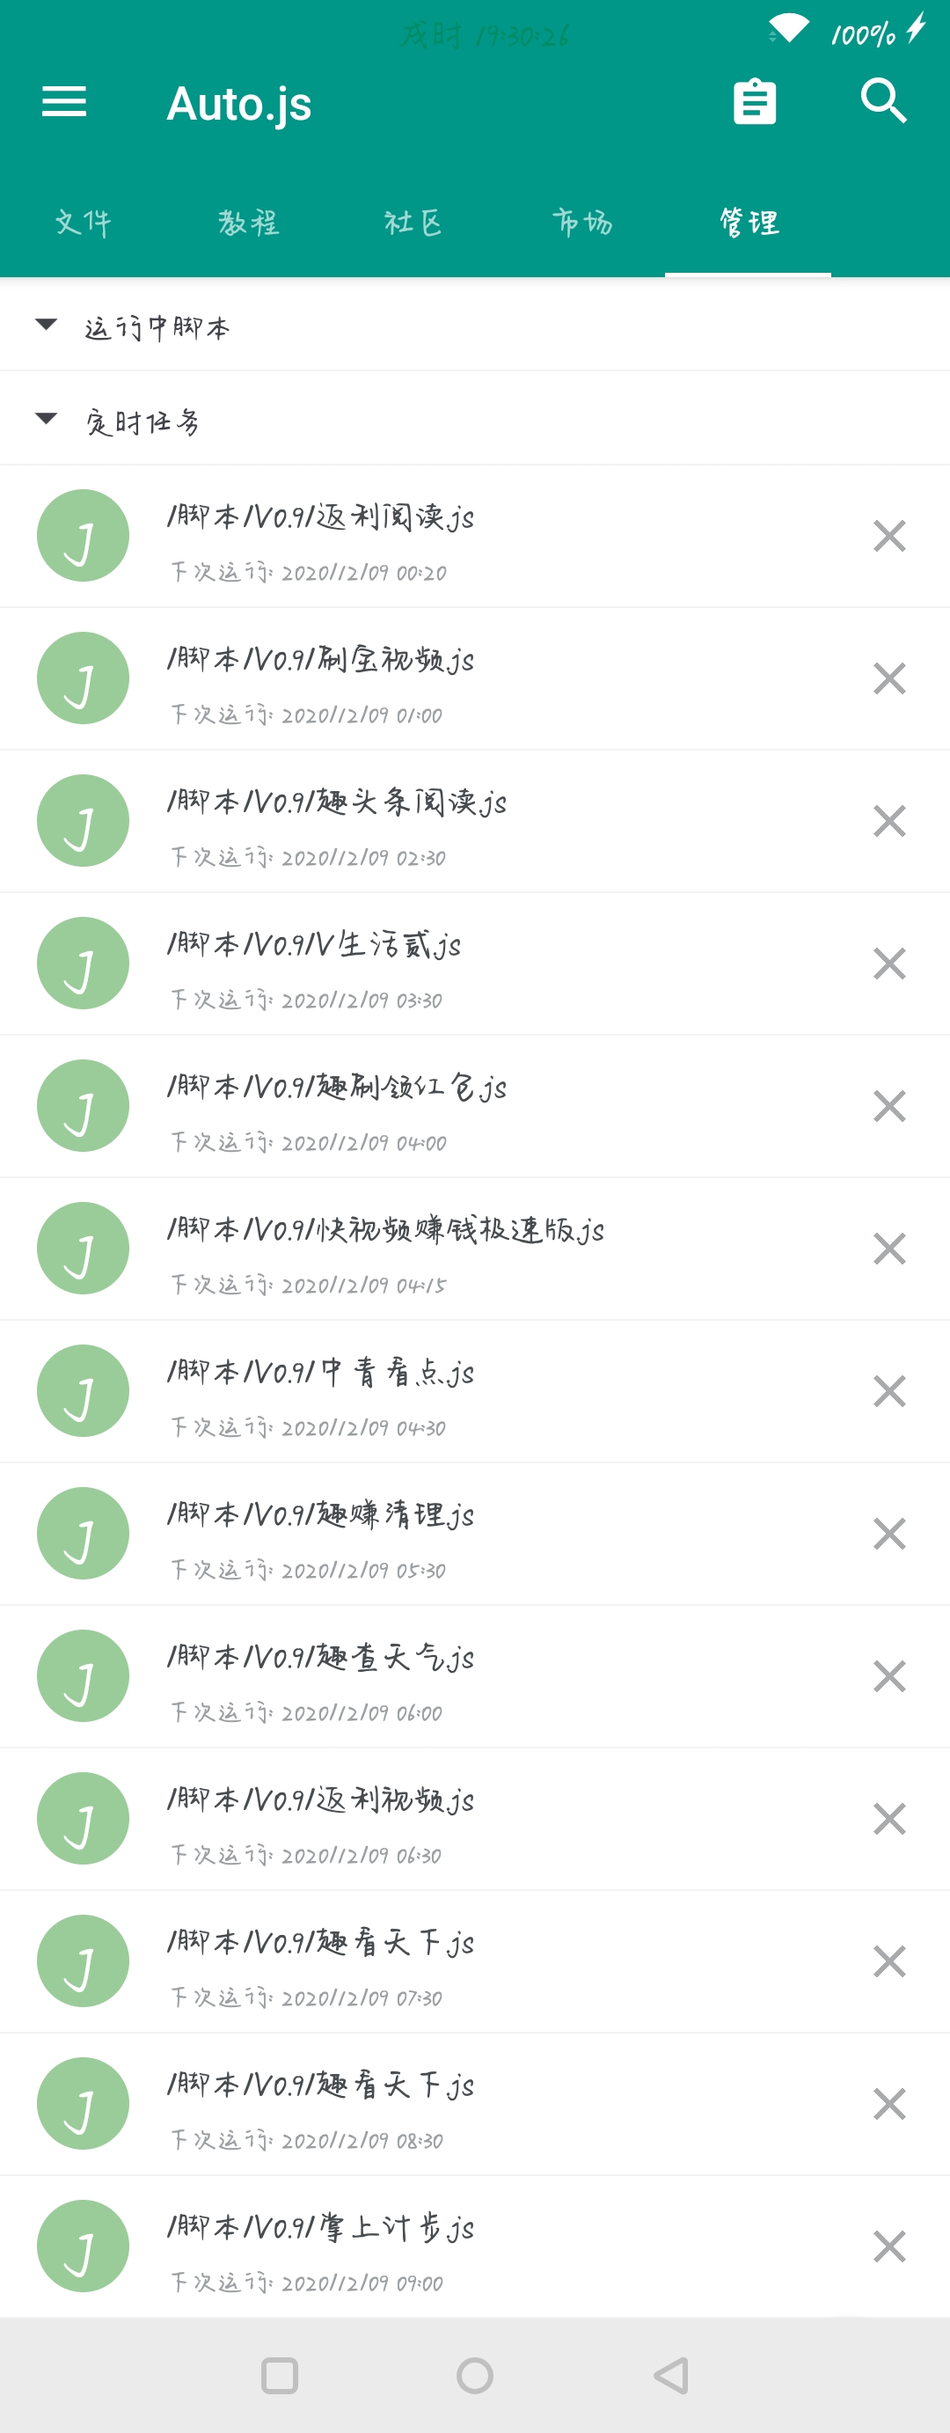
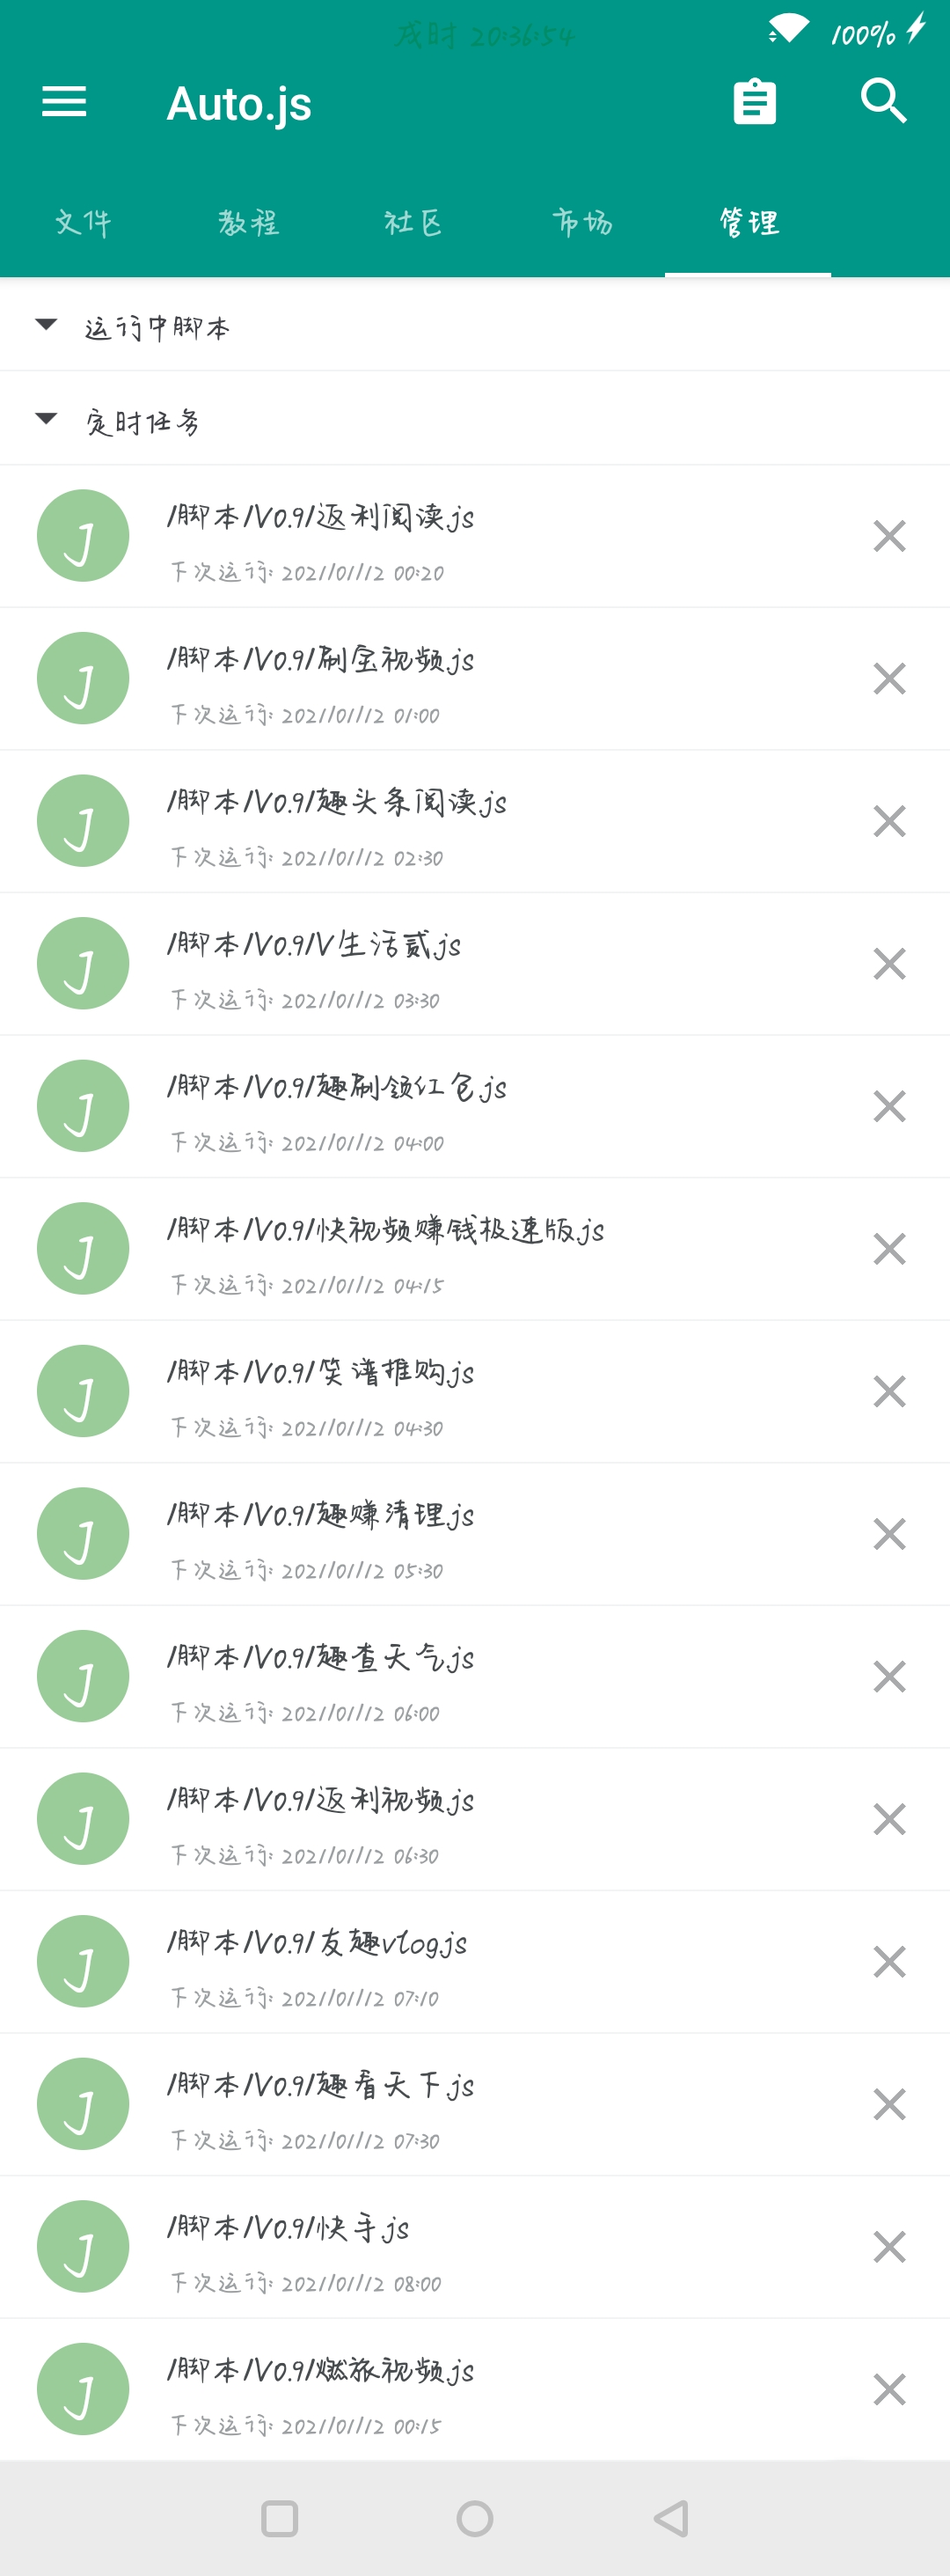
update

diff --git a/js/友趣vlog.js b/js/友趣vlog.js
@@ -1,4 +1,4 @@
-//耗时30分钟
+//耗时20分钟
 for(i=0;i<2;i++){
     home();
     sleep(1000); 
@@ -8,7 +8,7 @@ text("友趣vlog").find().click();
 id("d9").waitFor();
 sleep(4000);
 toastLog("start");
-for (i = 1; i < 208; i++) {
+for (i = 1; i < 120; i++) {
     if (i % 6 != 0) {
         toastLog("计数器：" + i);
         sleep(4000);

diff --git a/js/中青看点.js b/js/中青看点.js
@@ -1,3 +1,4 @@
+//封号了，不再更新
 //耗时1小时20分钟
 launch(getPackageName("中青看点"));
 var sh = new Shell(true);
